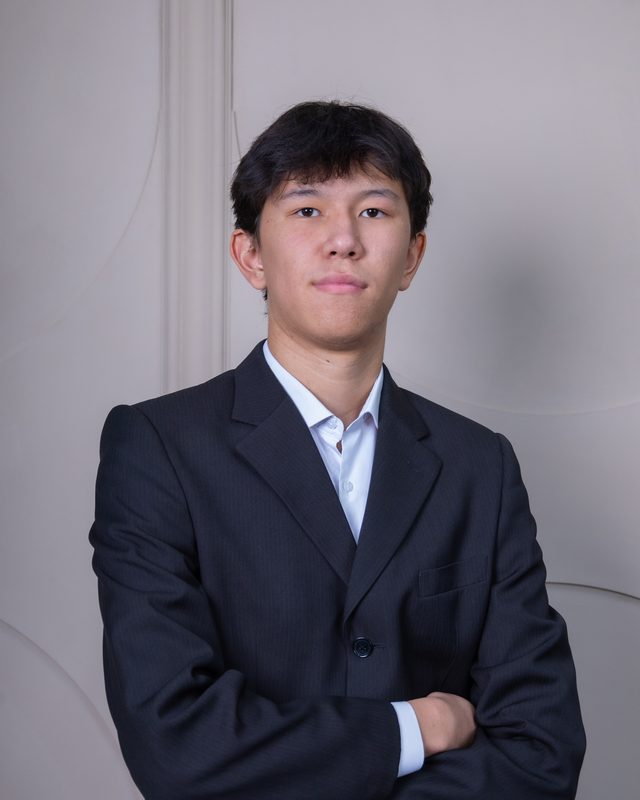
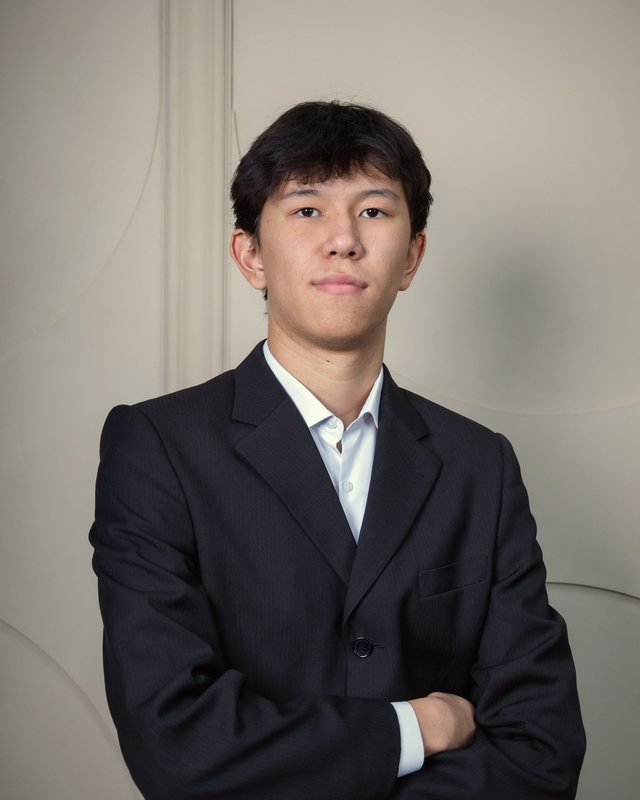
Команда фотоларының бірыңғай Алаш өңдеуі (tools/team_photos.py); алтын тозаң, кино жолақтары мен пленка түйіршігі, галереядағы сепия-фокус, скроллмен сызылатын қошқар мүйіз өрнегі

diff --git a/team.html b/team.html
@@ -56,7 +56,9 @@
   <main class="tm shx" id="main">
     <section class="shx-open" data-scrub="pin" aria-labelledby="shx-h">
       <div class="shx-stick">
+        <i class="shx-bar shx-bt" aria-hidden="true"></i><i class="shx-bar shx-bb" aria-hidden="true"></i>
         <div class="shx-photo"><img src="assets/img/team/group-hd.jpg" alt="AO17 командасының бес мүшесі кітап сөрелерінің алдында, ортада глобус." width="2400" height="1681" fetchpriority="high"></div>
+        <canvas class="shx-dust" aria-hidden="true"></canvas>
         <svg class="shx-shan" viewBox="-220 -220 440 440" aria-hidden="true" focusable="false">
           <circle class="shx-r1" r="190" pathLength="1"/><circle class="shx-r2" r="174" pathLength="1"/>
           <path class="shx-kd" pathLength="1" d="M-174-56H174M-174 56H174M-56-174V174M56-174V174"/>
@@ -72,6 +74,8 @@
       </div>
     </section>
 
+    <div class="orn" data-scrub="through" aria-hidden="true"><svg viewBox="0 0 1200 80" preserveAspectRatio="xMidYMid meet"><path class="orn-l" pathLength="1" d="M520 40H40M680 40H1160"/><path class="orn-h" pathLength="1" d="M600 58V40C600 22 584 12 570 18C556 24 558 44 572 44C582 44 584 32 576 30M600 40C600 22 616 12 630 18C644 24 642 44 628 44C618 44 616 32 624 30"/><path class="orn-h" pathLength="1" d="M520 40C536 40 540 30 532 26M680 40C664 40 660 30 668 26M40 40l-14-10M40 40l-14 10M1160 40l14-10M1160 40l14 10"/><path class="orn-d" d="M600 62l6 6-6 6-6-6z"/></svg></div>
+
     <section class="uyq" data-scrub="pin" aria-labelledby="uyq-h" style="--n:5">
       <div class="uyq-stick">
         <h2 class="uyq-h" id="uyq-h"><span class="st-intertitle">Бес уық</span>Кім не жасады</h2>
@@ -85,6 +89,8 @@
         <div class="uyq-hud" role="group" aria-label="Мүшеге өту"><button type="button" class="uyq-hb" data-i="0"><i></i><span>Tutkabayeva Gulzat</span></button><button type="button" class="uyq-hb" data-i="1"><i></i><span>Toktybay Dastan</span></button><button type="button" class="uyq-hb" data-i="2"><i></i><span>Sagid Mustafa</span></button><button type="button" class="uyq-hb" data-i="3"><i></i><span>Magzhan Romanov</span></button><button type="button" class="uyq-hb" data-i="4"><i></i><span>Kopenova Merey</span></button></div>
       </div>
     </section>
+
+    <div class="orn" data-scrub="through" aria-hidden="true"><svg viewBox="0 0 1200 80" preserveAspectRatio="xMidYMid meet"><path class="orn-l" pathLength="1" d="M520 40H40M680 40H1160"/><path class="orn-h" pathLength="1" d="M600 58V40C600 22 584 12 570 18C556 24 558 44 572 44C582 44 584 32 576 30M600 40C600 22 616 12 630 18C644 24 642 44 628 44C618 44 616 32 624 30"/><path class="orn-h" pathLength="1" d="M520 40C536 40 540 30 532 26M680 40C664 40 660 30 668 26M40 40l-14-10M40 40l-14 10M1160 40l14-10M1160 40l14 10"/><path class="orn-d" d="M600 62l6 6-6 6-6-6z"/></svg></div>
 
     <section class="tf" aria-labelledby="tf-h" data-film>
       <p class="st-intertitle">Фото-фильм</p>

diff --git a/assets/css/team.css b/assets/css/team.css
@@ -306,3 +306,26 @@ html:not(.st-js) .uyq-p { flex-basis: auto; }
   .shx-copy { margin-bottom: 14vh; }
   .tp-bg { top: 30%; }
 }
+
+/* ---------- кино-қабаттар: жолақтар, пленка түйіршігі, алтын тозаң ---------- */
+.shx-bar { position: absolute; left: 0; right: 0; z-index: 5; height: 0; background: #050302; pointer-events: none; }
+.shx-bt { top: 0; } .shx-bb { bottom: 0; }
+.st-js .shx-bar { height: calc((1 - var(--o, 1)) * 7vh + var(--t, 0) * 0vh); }
+.shx-stick::before { content: ""; position: absolute; inset: -40%; z-index: 4; pointer-events: none; background: var(--grain); opacity: .55; }
+.st-js .shx-stick::before { animation: shx-grain .9s steps(6) infinite; }
+@keyframes shx-grain { 0% { transform: translate(0, 0); } 20% { transform: translate(-3%, 2%); } 40% { transform: translate(2%, -3%); } 60% { transform: translate(-2%, -1%); } 80% { transform: translate(3%, 3%); } 100% { transform: translate(0, 0); } }
+.shx-dust { position: absolute; inset: 0; width: 100%; height: 100%; z-index: 3; pointer-events: none; }
+html:not(.st-js) .shx-dust { display: none; }
+
+/* ---------- галерея: назардағысы толық түсті, қалғаны көне фото (сепия) ---------- */
+.st-js .uyq-img img { filter: grayscale(calc(1 - var(--a, 1))) sepia(calc((1 - var(--a, 1)) * .55)) brightness(calc(.72 + .28 * var(--a, 1))); }
+
+/* ---------- қошқар мүйіз өрнегі: скроллмен сызылады ---------- */
+.orn { max-width: 1200px; margin: 0 auto; padding: 56px 16px 0; }
+.orn svg { display: block; width: 100%; height: auto; overflow: visible; }
+.orn path { fill: none; stroke: #d9b468; stroke-width: 2; stroke-linecap: round; stroke-linejoin: round; }
+.orn .orn-l { stroke: #8a6634; stroke-width: 1.4; }
+.orn .orn-d { fill: #7a1f2b; stroke-width: 1.2; }
+.st-js .orn { --q: clamp(0, calc((var(--p, 1) - .18) / .32), 1); }
+.st-js .orn :is(.orn-l, .orn-h) { stroke-dasharray: 1; stroke-dashoffset: calc(1 - var(--q)); }
+.st-js .orn .orn-d { opacity: var(--q); }

diff --git a/assets/js/team.js b/assets/js/team.js
@@ -54,6 +54,31 @@
     });
   }
 
+
+  // ---------- алтын тозаң: ашылу сахнасында ауада қалқыған ұсақ ұшқындар (canvas; тек көрінгенде және қозғалыс рұқсат болса) ----------
+  const dust = $(".shx-dust");
+  if (dust && motion()) {
+    const ctx = dust.getContext("2d"), N = innerWidth < 700 ? 38 : 72;
+    let W = 0, H = 0, dpr = 1, on = false, raf2 = 0;
+    const size = () => { dpr = Math.min(2, devicePixelRatio || 1); W = dust.clientWidth; H = dust.clientHeight; dust.width = W * dpr; dust.height = H * dpr; ctx.setTransform(dpr, 0, 0, dpr, 0, 0); };
+    const P = Array.from({ length: N }, () => ({ x: Math.random(), y: Math.random(), r: .6 + Math.random() * 1.8, v: .00025 + Math.random() * .0006, w: Math.random() * 6.28, s: .4 + Math.random() * .6 }));
+    const tick = (t) => {
+      raf2 = 0; if (!on) return;
+      ctx.clearRect(0, 0, W, H);
+      for (const q of P) {
+        q.y -= q.v; q.x += Math.sin(t / 2400 + q.w) * .00018;
+        if (q.y < -.02) { q.y = 1.02; q.x = Math.random(); }
+        const a = (.35 + .65 * Math.abs(Math.sin(t / 900 * q.s + q.w))) * .8;
+        ctx.beginPath(); ctx.arc(q.x * W, q.y * H, q.r, 0, 6.283);
+        ctx.fillStyle = `rgba(242, 205, 130, ${a.toFixed(3)})`; ctx.shadowColor = "rgba(242, 190, 90, .9)"; ctx.shadowBlur = 6; ctx.fill();
+      }
+      raf2 = requestAnimationFrame(tick);
+    };
+    size(); addEventListener("resize", size);
+    new IntersectionObserver((es) => es.forEach((e) => { on = e.isIntersecting; if (on && !raf2) raf2 = requestAnimationFrame(tick); })).observe(dust);
+    document.addEventListener("visibilitychange", () => { on = !document.hidden && dust.getBoundingClientRect().bottom > 0; if (on && !raf2) raf2 = requestAnimationFrame(tick); });
+  }
+
   // ---------- көрінгенде ашылатын бөлімдер және санағыштар ----------
   const count = (b) => {
     const to = +b.dataset.to; if (!to || !motion()) return;

diff --git a/tools/team_photos.py b/tools/team_photos.py
@@ -1,0 +1,82 @@
+#!/usr/bin/env python3
+# © 2026 AO17 командасы. All Rights Reserved. Дербес авторлық бағдарлама (LICENSE-PROPRIETARY.md, COPYRIGHT.md).
+"""«Команда» фотоларының бірыңғай «Алаш» өңдеуі (түпнұсқалар өзгермейді).
+
+Фотосессияның суреттері әртүрлі жарықта түсірілген: бірі суығырақ, бірі қызғылт, жарықтығы да әртүрлі.
+Бұл құрал бәрін бір кадрдан шыққандай етеді:
+  1. жарықтық теңестіру - әр суреттің орташа жарықтығы бір деңгейге (гамма арқылы, кенет емес);
+  2. ақ түс - фонның (жарқын аймақтардың) түсі бір жылы кілегей реңге келтіріледі;
+  3. «Алаш» түс өңдеуі - көлеңке жылы сияға (#2a1c14), жарқын жер кілегей-алтынға (#f1e3c6) бұрылады, қанықтық 12%-ке басылады, жұмсақ S-қисық;
+  4. жиектің жұмсақ қараюы (виньетка).
+Пайдалану: python3 tools/team_photos.py <түпнұсқалар қалтасы>
+Қалтада: gulzat.jpg, dastan.jpg, magzhan.jpg, merey.jpg, sagid.jpg (жеке, тік) және group.jpg, work.jpg, duo.jpg (жалпы).
+Нәтиже: assets/img/team/ (жеке - 640x800, жалпы - ені 1600, group-hd - ені 2400).
+"""
+import sys
+from pathlib import Path
+
+import numpy as np
+from PIL import Image
+
+ROOT = Path(__file__).resolve().parent.parent
+OUT = ROOT / "assets/img/team"
+INK, CREAM = np.array([42, 28, 20]) / 255, np.array([241, 227, 198]) / 255
+TARGET_L, BG_TARGET = 0.46, np.array([233, 222, 205]) / 255
+
+
+def lum(a):
+    return a[..., 0] * .2126 + a[..., 1] * .7152 + a[..., 2] * .0722
+
+
+def grade(im, vignette=.22):
+    a = np.asarray(im.convert("RGB"), dtype=np.float32) / 255
+    # 1) ақ түс: ең жарқын 25% (фон, көйлек) - ортақ жылы кілегейге
+    L = lum(a)
+    hi = a[L >= np.quantile(L, .75)].mean(axis=0)
+    gain = (BG_TARGET / hi) / (BG_TARGET / hi).mean()
+    a = np.clip(a * gain, 0, 1)
+    # 2) жарықтық: орташа жарықтық TARGET_L-ге (гамма)
+    m = float(lum(a).mean())
+    a = np.clip(a, 1e-4, 1) ** (np.log(TARGET_L) / np.log(max(1e-3, min(.99, m))))
+    # 3) жұмсақ контраст (орта тондар)
+    a = np.clip(.5 + (a - .5) * 1.06, 0, 1)
+    # 4) қанықтықты басу және реңдік тонинг (көлеңке - сия, жарқын - кілегей-алтын)
+    L = lum(a)[..., None]
+    a = L + (a - L) * .88
+    sh, hl = np.clip(1 - L * 2, 0, 1), np.clip(L * 2 - 1, 0, 1)
+    a = a * (1 - .18 * sh) + INK * .18 * sh
+    a = a * (1 - .10 * hl) + CREAM * .10 * hl
+    # 5) виньетка
+    h, w = a.shape[:2]
+    y, x = np.ogrid[:h, :w]
+    r = np.sqrt(((x - w / 2) / (w / 2)) ** 2 + ((y - h / 2) / (h / 2)) ** 2) / np.sqrt(2)
+    a = a * (1 - vignette * np.clip((r - .45) / .55, 0, 1) ** 1.6)[..., None]
+    return Image.fromarray((np.clip(a, 0, 1) * 255 + .5).astype(np.uint8))
+
+
+def portrait(src, dst):
+    im = Image.open(src).convert("RGB")
+    w, h = im.size
+    im = im.crop((0, 0, w, min(h, int(w * 1.25)))).resize((640, 800), Image.LANCZOS)
+    grade(im, .18).save(dst, quality=84, optimize=True, progressive=True)
+
+
+def wide(src, dst, width):
+    im = Image.open(src).convert("RGB")
+    w, h = im.size
+    im = im.resize((width, round(h * width / w)), Image.LANCZOS)
+    grade(im, .26).save(dst, quality=80, optimize=True, progressive=True)
+
+
+def main(srcdir):
+    s = Path(srcdir)
+    for n in ("gulzat", "dastan", "magzhan", "merey", "sagid"):
+        portrait(s / f"{n}.jpg", OUT / f"{n}.jpg")
+    for n in ("work", "duo", "group"):
+        wide(s / f"{n}.jpg", OUT / f"{n}.jpg", 1600)
+    wide(s / "group.jpg", OUT / "group-hd.jpg", 2400)
+    print("team photos:", ", ".join(sorted(p.name for p in OUT.glob("*.jpg"))))
+
+
+if __name__ == "__main__":
+    main(sys.argv[1] if len(sys.argv) > 1 else ROOT / "assets/img/team/src")

diff --git a/tools/team_build.py b/tools/team_build.py
@@ -147,7 +147,9 @@ def team_page():
     main = f"""  <main class="tm shx" id="main">
     <section class="shx-open" data-scrub="pin" aria-labelledby="shx-h">
       <div class="shx-stick">
+        <i class="shx-bar shx-bt" aria-hidden="true"></i><i class="shx-bar shx-bb" aria-hidden="true"></i>
         <div class="shx-photo"><img src="assets/img/team/group-hd.jpg" alt="AO17 командасының бес мүшесі кітап сөрелерінің алдында, ортада глобус." width="2400" height="1681" fetchpriority="high"></div>
+        <canvas class="shx-dust" aria-hidden="true"></canvas>
         <svg class="shx-shan" viewBox="-220 -220 440 440" aria-hidden="true" focusable="false">
           <circle class="shx-r1" r="190" pathLength="1"/><circle class="shx-r2" r="174" pathLength="1"/>
           <path class="shx-kd" pathLength="1" d="M-174-56H174M-174 56H174M-56-174V174M56-174V174"/>
@@ -163,6 +165,8 @@ def team_page():
       </div>
     </section>
 
+    <div class="orn" data-scrub="through" aria-hidden="true"><svg viewBox="0 0 1200 80" preserveAspectRatio="xMidYMid meet"><path class="orn-l" pathLength="1" d="M520 40H40M680 40H1160"/><path class="orn-h" pathLength="1" d="M600 58V40C600 22 584 12 570 18C556 24 558 44 572 44C582 44 584 32 576 30M600 40C600 22 616 12 630 18C644 24 642 44 628 44C618 44 616 32 624 30"/><path class="orn-h" pathLength="1" d="M520 40C536 40 540 30 532 26M680 40C664 40 660 30 668 26M40 40l-14-10M40 40l-14 10M1160 40l14-10M1160 40l14 10"/><path class="orn-d" d="M600 62l6 6-6 6-6-6z"/></svg></div>
+
     <section class="uyq" data-scrub="pin" aria-labelledby="uyq-h" style="--n:{len(M)}">
       <div class="uyq-stick">
         <h2 class="uyq-h" id="uyq-h"><span class="st-intertitle">Бес уық</span>Кім не жасады</h2>
@@ -172,6 +176,8 @@ def team_page():
         <div class="uyq-hud" role="group" aria-label="Мүшеге өту">{hud}</div>
       </div>
     </section>
+
+    <div class="orn" data-scrub="through" aria-hidden="true"><svg viewBox="0 0 1200 80" preserveAspectRatio="xMidYMid meet"><path class="orn-l" pathLength="1" d="M520 40H40M680 40H1160"/><path class="orn-h" pathLength="1" d="M600 58V40C600 22 584 12 570 18C556 24 558 44 572 44C582 44 584 32 576 30M600 40C600 22 616 12 630 18C644 24 642 44 628 44C618 44 616 32 624 30"/><path class="orn-h" pathLength="1" d="M520 40C536 40 540 30 532 26M680 40C664 40 660 30 668 26M40 40l-14-10M40 40l-14 10M1160 40l14-10M1160 40l14 10"/><path class="orn-d" d="M600 62l6 6-6 6-6-6z"/></svg></div>
 
     <section class="tf" aria-labelledby="tf-h" data-film>
       <p class="st-intertitle">Фото-фильм</p>

diff --git a/COPYRIGHT.md b/COPYRIGHT.md
@@ -12,7 +12,7 @@
 |---|---|
 | A1 · Harvard CS50 түпнұсқасы | 141 |
 | A2 · Harvard материалының аудармасы/бейімдеуі | 52 |
-| B · AO17 командасының дербес әзірлемесі | 1816 |
+| B · AO17 командасының дербес әзірлемесі | 1817 |
 | C · Үшінші тарап | 87 |
 | R · Тексеруді қажет етеді (лицензия тағайындалмаған) | 56 |
 
@@ -53,7 +53,7 @@
 | `assets/js/main.js`<br>`assets/js/exam.js`<br>`exam.html`<br>`assets/js/profile.js`<br>`profile.html`<br>`assets/js/cloud.js`<br>`teacher.html`<br>`assets/js/feedback.js`<br>`supabase/**`<br>`certificate.html`<br>`partners.html`<br>`posters.html`<br>`metrics.html`<br>`assets/js/metrics.js`<br>`sw.js`<br>`manifest.webmanifest`<br>`assets/js/ao.js`<br>`assets/js/ao-ui.js`<br>`assets/js/ao-gate.js`<br>`login.html`<br>`admin.html`<br>`student.html`<br>`tools/gate.py`<br>`tools/create_admin.py`<br>`docs/PLATFORM.md`<br>`.github/workflows/platform-deploy.yml` | **B-platform** Платформа: движок сайта, прогресс, достижения, редактор, тест-система, профиль, кабинеты ученика и преподавателя, синхронизация (33 файл) | AO17 командасы | © 2026 AO17 командасы. All Rights Reserved (LICENSE-PROPRIETARY.md) | иесі мәлімдеген |
 | `assets/css/style.css`<br>`docs/MOTION-SYSTEM.md`<br>`docs/INVESTOR-BRIEF.md`<br>`docs/DUE-DILIGENCE.md`<br>`docs/DATA-ROOM.md`<br>`docs/INVENTORY.md`<br>`assets/img/bota*.svg`<br>`assets/img/seal.svg`<br>`assets/img/brand/**`<br>`assets/img/posters/**`<br>`film/**`<br>`tools/make_film.py`<br>`tools/make_posters.py`<br>`docs/FILM.md`<br>`docs/MATH-FX-PROGRESS.md`<br>`docs/CODE-FX-PROGRESS.md`<br>`assets/img/icon*`<br>`assets/img/og.jpg`<br>`assets/img/og/**`<br>`tools/make_og.mjs`<br>`tools/make_og_main.mjs`<br>`tools/og-main.html` | **B-design** Дизайн, стили, фирменная графика (маскот Бота, иконки, превью) (88 файл) | AO17 командасы | © 2026 AO17 командасы. All Rights Reserved (LICENSE-PROPRIETARY.md) | иесі мәлімдеген |
 | `tools/build.py`<br>`tools/fetch_cs50.py`<br>`tools/__pycache__/**`<br>`tests/**`<br>`.github/**`<br>`licensing/**`<br>`robots.txt`<br>`sitemap.xml`<br>`.nojekyll`<br>`.gitignore`<br>`**/.gitkeep`<br>`tools/licence_audit.py` | **B-tools-tests** Скрипты сборки, тесты, CI (74 файл) | AO17 командасы | © 2026 AO17 командасы. All Rights Reserved (LICENSE-PROPRIETARY.md) | иесі мәлімдеген |
-| `team.html`<br>`team/**`<br>`assets/css/team.css`<br>`assets/js/team.js`<br>`assets/img/team/**`<br>`tools/team_build.py` | **B-team** «Команда»: команда беті, бес жеке бет, фото-фильм, басты беттің 8-сахнасы (19 файл) | AO17 командасы | © 2026 AO17 командасы. All Rights Reserved (LICENSE-PROPRIETARY.md) | иесі мәлімдеген |
+| `team.html`<br>`team/**`<br>`assets/css/team.css`<br>`assets/js/team.js`<br>`assets/img/team/**`<br>`tools/team_build.py`<br>`tools/team_photos.py` | **B-team** «Команда»: команда беті, бес жеке бет, фото-фильм, басты беттің 8-сахнасы (20 файл) | AO17 командасы | © 2026 AO17 командасы. All Rights Reserved (LICENSE-PROPRIETARY.md) | иесі мәлімдеген |
 | `qazaqcode/**` | **B-qazaqcode** QazaqCode Platform (отдельный коммерческий продукт) (319 файл) | Sagid Mustafa | © 2026 Sagid Mustafa. All Rights Reserved (qazaqcode/LICENSE) | иесі мәлімдеген |
 | `README.md`<br>`LICENSE.md`<br>`LICENSE-HARVARD.md`<br>`LICENSE-PROPRIETARY.md`<br>`COPYRIGHT.md`<br>`THIRD-PARTY-LICENSES.md`<br>`TAKEDOWN.md`<br>`copyright.html`<br>`404.html`<br>`test-results/**`<br>`MOBILE-TESTING.md` | **B-docs** Документы проекта: README, лицензии, правила обращения (10 файл) | AO17 командасы | © 2026 AO17 командасы. All Rights Reserved (LICENSE-PROPRIETARY.md) | иесі мәлімдеген |
 | `assets/vendor/sqljs/**` | **C-sqljs** sql.js (SQLite в WebAssembly) (4 файл) | sql.js authors; SQLite - общественное достояние | MIT | расталған |
